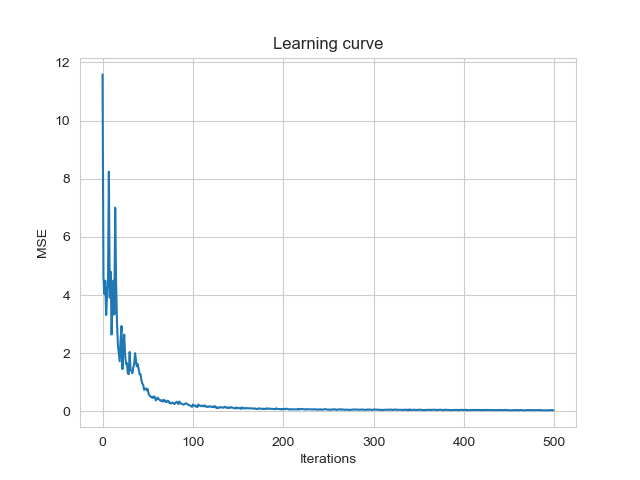
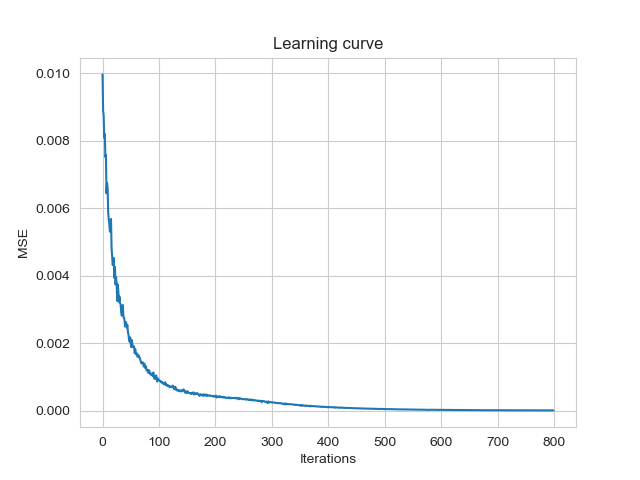
percent lms training and cleaner animation script

diff --git a/neuron_animation.py b/neuron_animation.py
@@ -1,6 +1,6 @@
 """
 Run a simulation of a single hebbian-lms neuron. The neuron receives a set of uniformly distributed input vectors.
-It should learn to cluster the points into two groups. 
+It learns to cluster the points into two groups. 
 
 The script runs an animation of the clustering process.
 """
@@ -20,18 +20,26 @@ from hebbian_lms import HebbLMSNet
 
 np.random.seed(10)
 
-output_dir = Path('clustering_plots')
-os.makedirs(output_dir, exist_ok=True)
-
 # Network Configuration
 n_neurons = 1
 n_weights = 100
-excitatory_ratio = -1
-n_iters = 500
-mu = 0.02
+excitatory_ratio = 0.5
+n_iters = 800
+mu = 0.01
 gamma = 0.5
+percent = True
+save_gif = False
 
-hebb = HebbLMSNet(n_weights, [n_neurons], excitatory_ratio, mu=mu, gamma=gamma)
+# Animation output configuation
+output_dir = Path('clustering_plots')
+os.makedirs(output_dir, exist_ok=True)
+snapshot_iters = [0, 50, 250, 800]
+
+hebb = HebbLMSNet(n_weights, [n_neurons],
+                  excitatory_ratio,
+                  percent=percent,
+                  mu=mu,
+                  gamma=gamma)
 
 # Create the training matrix by sampling from a uniform distribution; each row is a training vector
 n_training_samples = 50
@@ -39,13 +47,13 @@ X = np.random.rand(n_training_samples, n_weights)
 
 all_errors = []
 
-# Clustering animation
+# Clustering process; collect data
 all_sums = []
 all_Y = []
 for i in range(n_iters):
     np.random.shuffle(X)
     Y, sums, error = hebb.run(X, train=True)
-    all_errors.append(np.sum(error**2))
+    all_errors.append(np.mean(error**2))
     all_Y.append(Y)
     all_sums.append(sums)
 
@@ -60,9 +68,20 @@ line2, = ax.plot(x, np.sin(x), 'or')
 line3, = ax.plot(x, np.sin(x), '^y')
 ax.plot(x, np.tanh(x), linewidth=0.5)
 ax.plot(x, gamma * x, 'y-', linewidth=0.5)
-plt.xlabel("sum")
-plt.ylabel("tanh(sum)")
+plt.xlabel("SUM")
+plt.ylabel("tanh(SUM)")
 plt.title("Clustering process")
+
+# Save snapshots
+for iter in snapshot_iters:
+    i = max(iter - 1, 0)
+    pos_idx = all_sums[i] > 0
+    neg_idx = all_sums[i] < 0
+    zero_idx = all_sums[i] == 0
+    line1.set_data(all_sums[i][pos_idx], all_Y[i][pos_idx])
+    line2.set_data(all_sums[i][neg_idx], all_Y[i][neg_idx])
+    line3.set_data(all_sums[i][zero_idx], all_Y[i][zero_idx])
+    plt.savefig(output_dir / f'hlms_training_{iter}.png')
 
 
 def init():
@@ -86,13 +105,19 @@ ani = FuncAnimation(fig,
                     animate,
                     frames=n_iters,
                     init_func=init,
-                    interval=20,
+                    interval=1,
                     blit=True,
                     save_count=50)
 
-ani.save(output_dir / "hlms_neuron_training.gif", dpi=80, writer='imagemagick')
+if save_gif:
+    progress_callback = lambda i, n: print(f'Saving frame {i} of {n}')
+    ani.save(output_dir / "hlms_neuron_training.gif",
+             dpi=80,
+             writer='imagemagick',
+             fps=24,
+             progress_callback=progress_callback)
 
-plt.show()
+    plt.show()
 
 # Plot learning curve
 plt.figure()

diff --git a/hebbian_lms.py b/hebbian_lms.py
@@ -13,6 +13,7 @@ class HebbLMSNet:
                  input_size: int,
                  layer_sizes: list,
                  excitatory_ratio,
+                 percent: bool = True,
                  gamma=0.5,
                  mu=0.1):
         """
@@ -21,7 +22,9 @@ class HebbLMSNet:
         :param excitatory_ratio: Ratio of input connections that are excitatory to the total number of connections; value between 0 and 1
         :param gamma: value between 0 and 1 used in calculating errors for updating weights
         :param mu: learning rate
+        :param percent: Use the percent variant of hebbian LMS
         """
+        self.percent = percent
         self.input_size = input_size
         self.excitatory_ratio = excitatory_ratio
         self.layer_sizes = [input_size] + layer_sizes
@@ -83,6 +86,8 @@ class HebbLMSNet:
                 if train:
                     # Update the weights
                     neg_gradient = self.mu * (masked[:, None] @ err[None, :])
+                    if self.percent:
+                        neg_gradient *= W
                     W += neg_gradient
 
                     # Check to see if weights are non-negative
